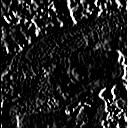
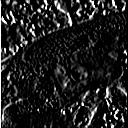
update 15

diff --git a/q_11_20/ans_15.py b/q_11_20/ans_15.py
@@ -27,8 +27,8 @@ def sobel_filter(img_, k_size=3):
     img_pad[pad:H+pad, pad:W+pad] = img
 
     #kernel (vertically and horizontally)
-    kernel_v = np.array([[1, 2, 1], [0, 0, 0], [-1, -2, -1]]).astype(np.float32)
-    kernel_h = np.array([[1, 0, -1], [2, 0, -2], [1, 0, -1]]).astype(np.float32)
+    kernel_v = np.array([[-1, -2, -1], [0, 0, 0], [1, 2, 1]]).astype(np.float32)
+    kernel_h = np.array([[-1, 0, 1], [-2, 0, 2], [-1, 0, 1]]).astype(np.float32)
 
     #filtering (vertically and horizontally)
     out_v = np.zeros((H+pad*2, W+pad*2, C)).astype(np.float32)
